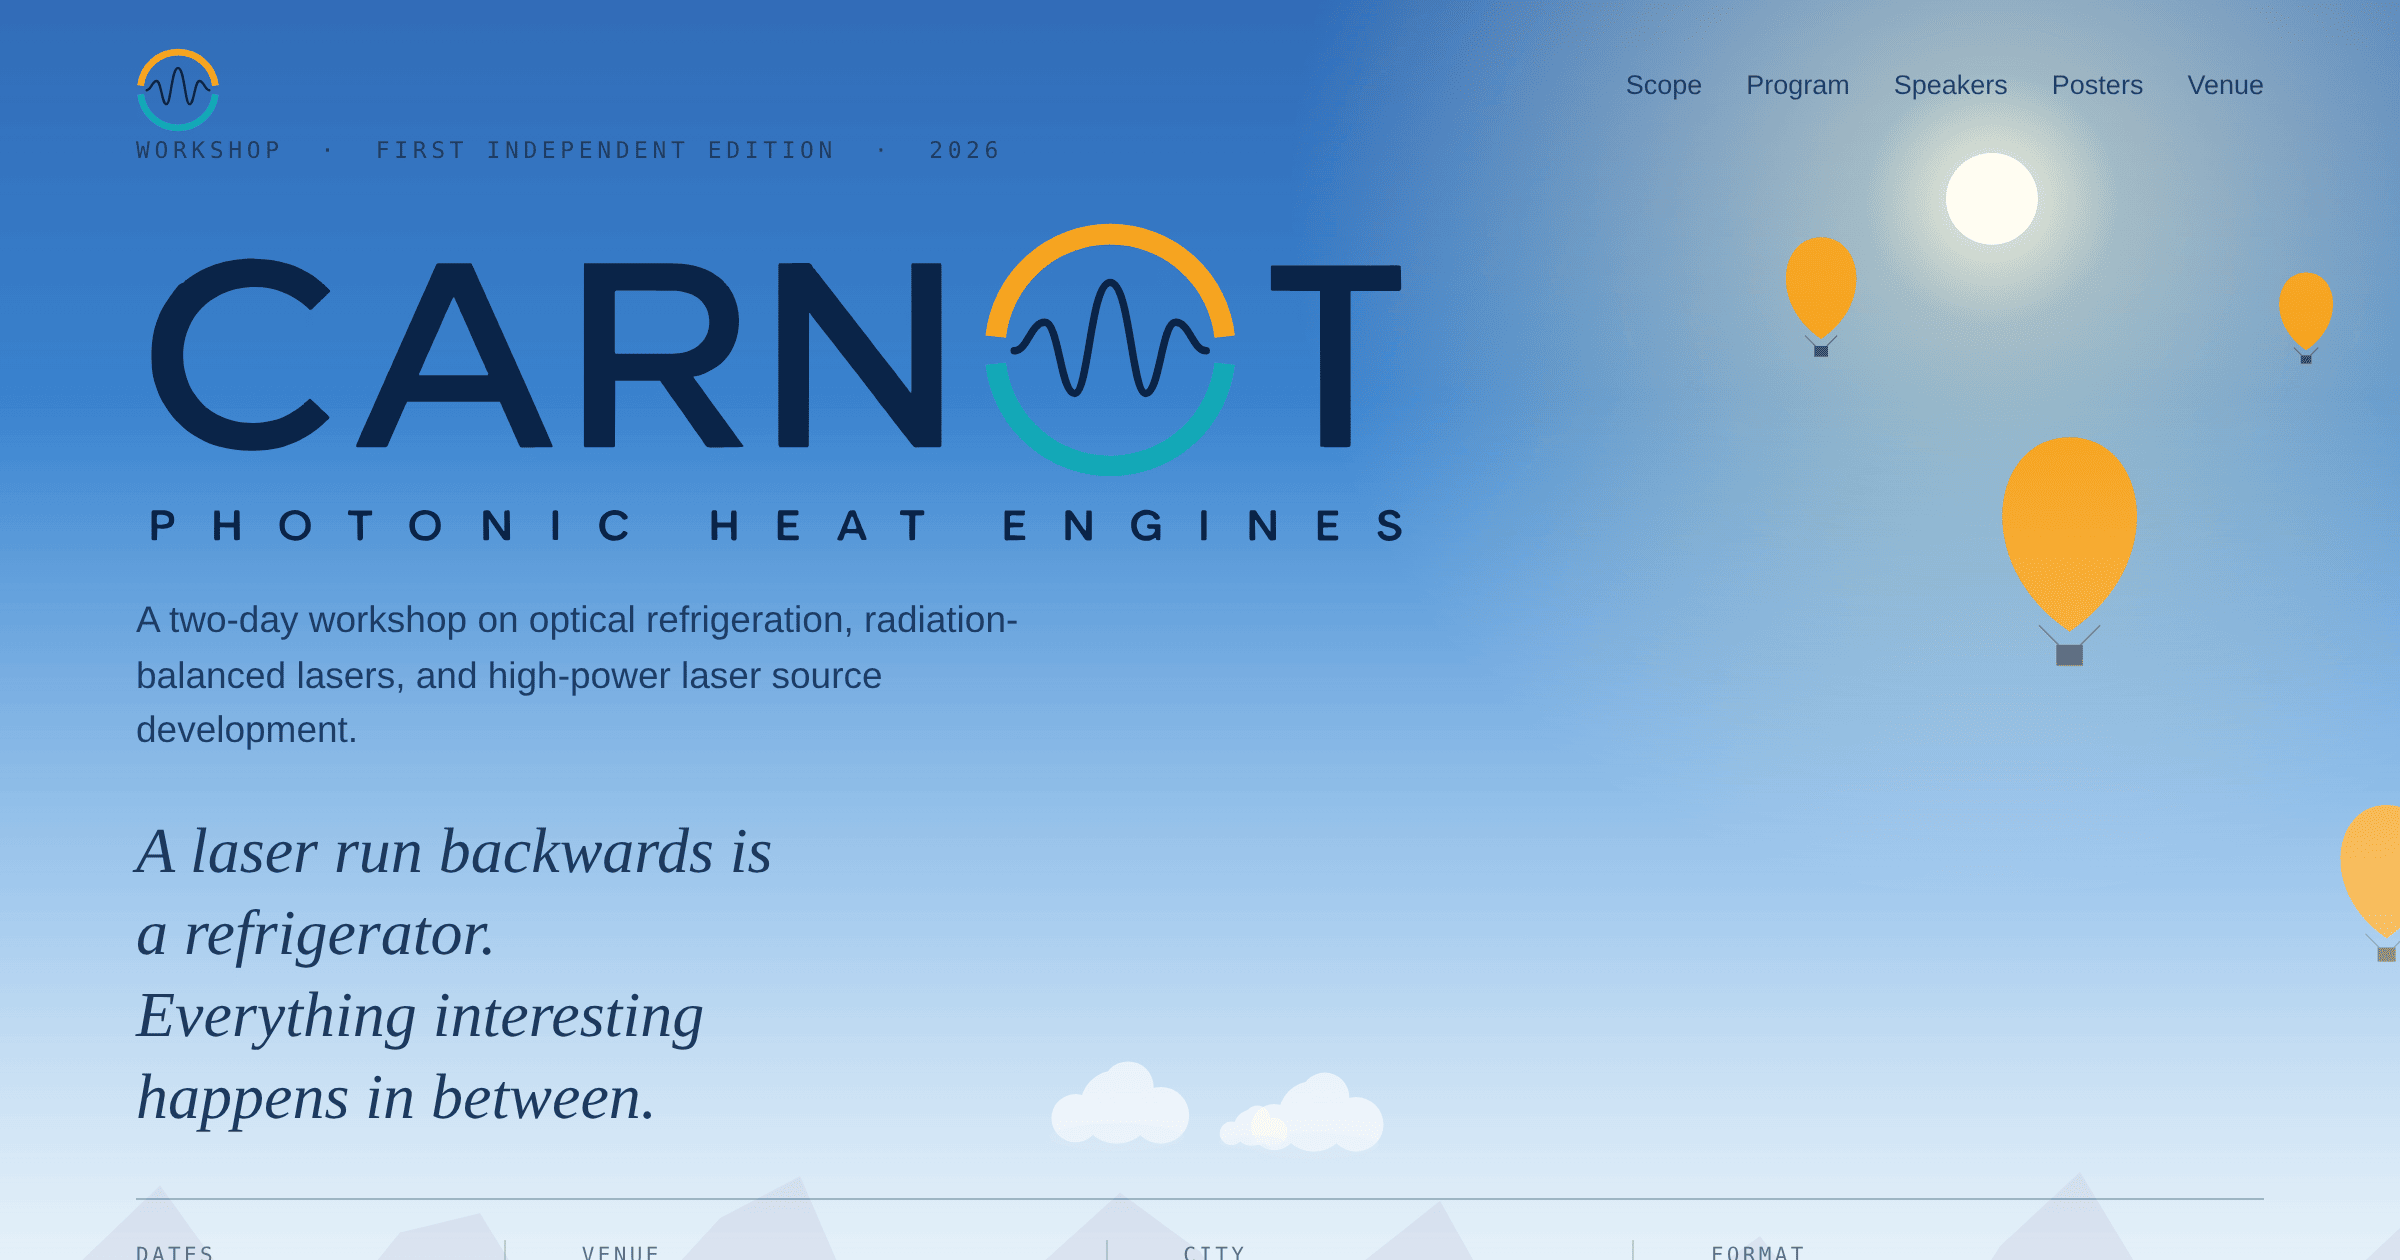
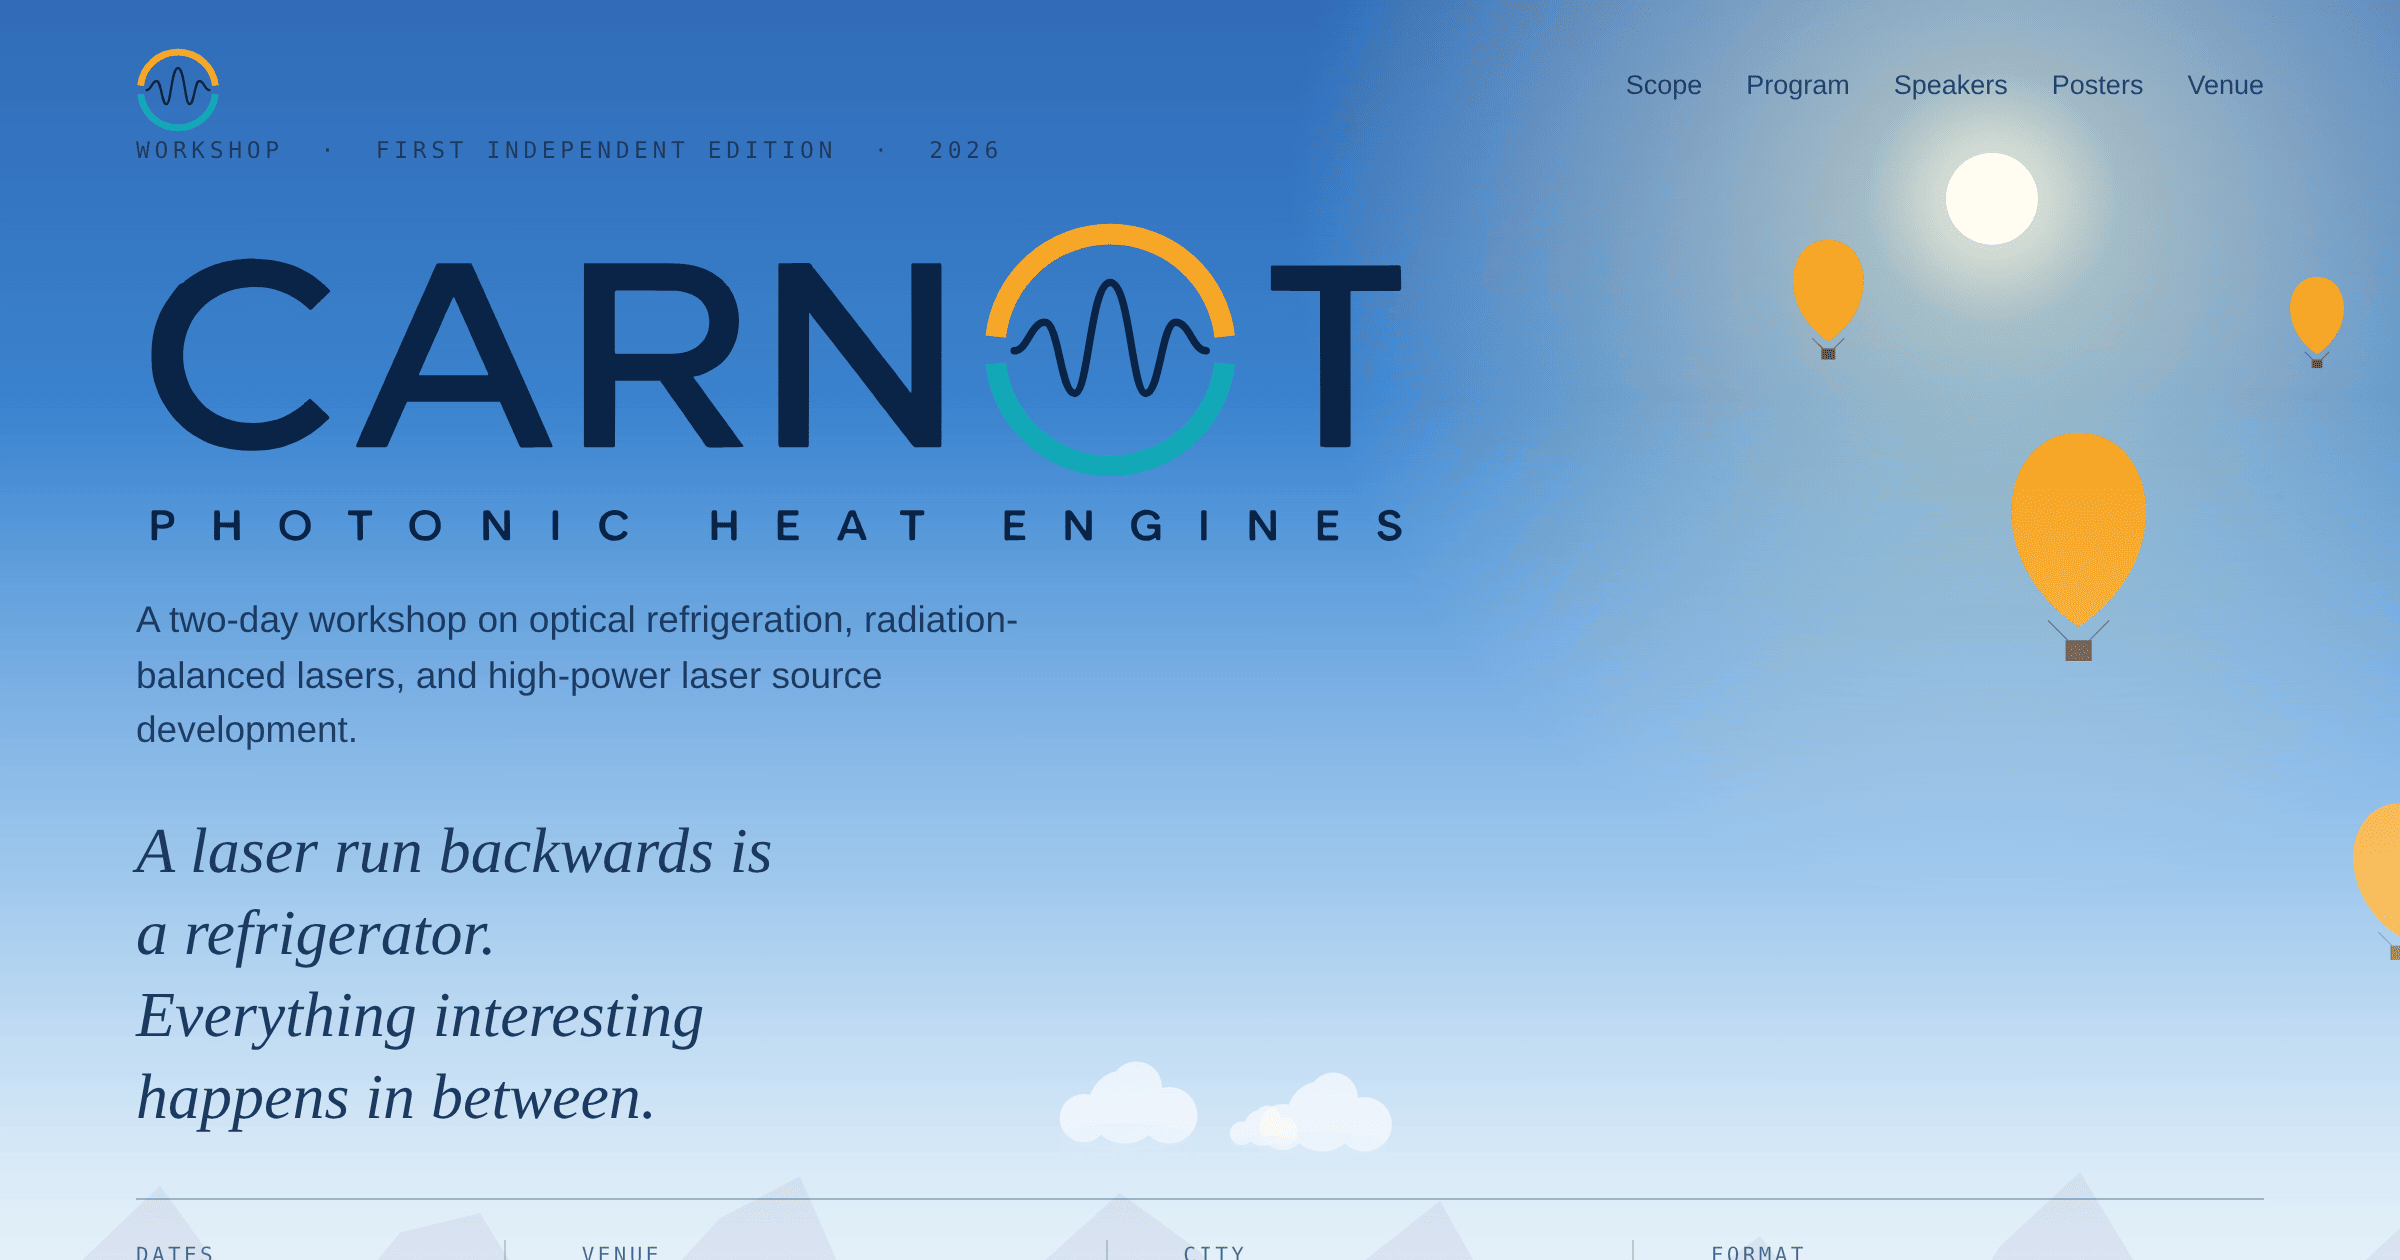
Add files via upload
v0.9 — PAIS photos, room details

diff --git a/index.html b/index.html
@@ -20,7 +20,7 @@
 <!-- ===== SITE VERSION =====================================================
      Bump this on every content change, and update the matching line in the
      footer (search: class="ver") and the entry in CHANGELOG.md.
-     CURRENT: v0.5 — 24 August 2026
+     CURRENT: v0.9 — 26 August 2026
      ====================================================================== -->
 <title>Carnot 2026 Workshop</title>
 <link rel="preconnect" href="https://fonts.googleapis.com">
@@ -206,8 +206,12 @@ section{padding:88px 0}
 
 /* ---------- VENUE ---------- */
 .venue-grid{display:grid; grid-template-columns:minmax(0,1fr) minmax(0,1.1fr); gap:56px; align-items:center}
-.venue-art{border:1px solid var(--line); border-radius:3px; overflow:hidden; background:var(--surface-2)}
-.venue-art svg{display:block; width:100%; height:auto}
+.venue-art{border:1px solid var(--line); border-radius:3px; overflow:hidden; background:var(--surface-2); margin:0}
+.venue-art img{display:block; width:100%; height:auto}
+.gallery{display:grid; grid-template-columns:repeat(auto-fit,minmax(250px,1fr)); gap:22px}
+.gallery figure{margin:0}
+.gallery img{display:block; width:100%; height:auto; border:1px solid var(--line); border-radius:3px; background:var(--surface-2)}
+.gallery figcaption{font-size:13.5px; line-height:1.5; color:var(--muted); margin-top:10px}
 .vlist{margin:26px 0 0; padding:0; list-style:none; border-top:1px solid var(--line)}
 .vlist li{display:grid; grid-template-columns:132px 1fr; gap:18px; padding:13px 0; border-bottom:1px solid var(--line); font-size:15px; align-items:baseline}
 .vlist li div{line-height:1.55}
@@ -234,6 +238,7 @@ section{padding:88px 0}
 .org span{font-size:13.5px; color:var(--muted)}
 footer{border-top:1px solid var(--line); padding:44px 0 60px; color:var(--muted); font-size:13.5px}
 .ver{font-family:"IBM Plex Mono",ui-monospace,monospace; font-size:11.5px; letter-spacing:.06em; margin-top:4px}
+.legal{font-size:12px; line-height:1.5; color:var(--muted); max-width:52ch; margin-top:12px}
 .foot{display:flex; justify-content:space-between; gap:26px; flex-wrap:wrap; align-items:flex-end}
 .note{font-size:12.5px; color:var(--muted); margin-top:14px; font-style:italic}
 
@@ -558,7 +563,7 @@ footer{border-top:1px solid var(--line); padding:44px 0 60px; color:var(--muted)
     <div class="sec-head">
       <p class="eyebrow">Students and postdocs</p>
       <h2>Poster session, with prizes</h2>
-      <p>Around twelve posters are expected, drawn from the speakers&rsquo; groups, from UNM&rsquo;s Center for High Technology Materials, and from the national laboratories. The session has its own ninety-minute block on Day One with a reception, introduced by flash talks in which every presenter gets two minutes and one slide.</p>
+      <p>Around twelve posters are expected, drawn from the speakers&rsquo; groups, from UNM&rsquo;s Center for High Technology Materials, and from the national laboratories. Posters go up in PAIS 1010 alongside the talks, and the session has its own ninety-minute block on Day One with a reception, introduced by flash talks in which every presenter gets two minutes and one slide.</p>
     </div>
     <p class="prose">Poster prizes are awarded at the workshop dinner, and the winners are invited to give short talks in Sunday&rsquo;s contributed session.</p>
   </div>
@@ -576,6 +581,7 @@ footer{border-top:1px solid var(--line); padding:44px 0 60px; color:var(--muted)
       </div>
       <ul class="vlist">
         <li><span>Venue</span><div>Physics, Astronomy and Interdisciplinary Science (PAIS) Building<br>210 Yale Boulevard NE, Albuquerque, NM 87106<br>University of New Mexico main campus &mdash; northeast corner of Yale and Redondo</div></li>
+        <li><span>Room</span><div>PAIS 1010 &mdash; 40 seats, two walls of whiteboard, a large projection screen, and a glass wall onto the inner courtyard.</div></li>
         
         <li><span>Lodging</span><div>Hotel Parq Central<br>806 Central Avenue SE, Albuquerque, NM 87102<br>Block held at the UNM rate for invited speakers and international guests</div></li>
         <li><span>From the airport</span><div>Albuquerque International Sunport (ABQ) is 10 minutes from the hotel. Hotel Parq Central runs a complimentary airport shuttle, 7:30&nbsp;am&ndash;10:30&nbsp;pm.</div></li>
@@ -588,70 +594,19 @@ footer{border-top:1px solid var(--line); padding:44px 0 60px; color:var(--muted)
         <a href="https://www.google.com/maps/dir/?api=1&amp;origin=Hotel%20Parq%20Central%2C%20806%20Central%20Ave%20SE%2C%20Albuquerque%2C%20NM%2087102&amp;destination=210%20Yale%20Blvd%20NE%2C%20Albuquerque%2C%20NM%2087106" target="_blank" rel="noopener">Directions, hotel to PAIS</a>
       </div>
     </div>
-    <div class="venue-art">
-      <svg viewBox="0 0 520 380" role="img" aria-label="Illustration of the PAIS building below the Sandia mountains under a bright New Mexico sky, with hot-air balloons overhead.">
-        <defs>
-          <linearGradient id="vsky" x1="0" y1="0" x2="0" y2="1">
-            <stop offset="0" stop-color="#1F62B4"/>
-            <stop offset=".42" stop-color="#5E9BDB"/>
-            <stop offset=".74" stop-color="#A9CDEB"/>
-            <stop offset="1" stop-color="#DCEAF3"/>
-          </linearGradient>
-          <radialGradient id="vsun" cx=".5" cy=".5" r=".5">
-            <stop offset="0" stop-color="#FFFBE4" stop-opacity=".95"/>
-            <stop offset="1" stop-color="#FFF6CE" stop-opacity="0"/>
-          </radialGradient>
-        </defs>
-        <rect width="520" height="380" fill="url(#vsky)"/>
-        <circle cx="424" cy="62" r="96" fill="url(#vsun)"/>
-        <circle cx="424" cy="62" r="15" fill="#FFFDF0" opacity=".95"/>
-
-        <g fill="#FFFFFF" opacity=".55">
-          <circle cx="118" cy="196" r="15"/><circle cx="140" cy="203" r="11"/><circle cx="98" cy="204" r="10"/>
-          <circle cx="330" cy="176" r="11"/><circle cx="346" cy="182" r="8"/>
-        </g>
-
-        <path d="M0 232 L70 190 L126 218 L198 166 L254 210 L318 172 L384 216 L450 186 L520 222 L520 380 L0 380 Z" fill="#93A3CA" opacity=".55"/>
-        <path d="M0 264 L86 232 L160 258 L242 226 L322 260 L406 232 L520 262 L520 380 L0 380 Z" fill="#A67D63" opacity=".9"/>
-        <path d="M0 292 L104 272 L206 290 L300 268 L400 292 L520 274 L520 380 L0 380 Z" fill="#7C4E33"/>
-
-        <g>
-          <rect x="96" y="292" width="196" height="66" fill="#E6DED0"/>
-          <rect x="96" y="292" width="196" height="7" fill="#C6BAA6"/>
-          <rect x="292" y="270" width="118" height="88" fill="#EFE8DC"/>
-          <rect x="292" y="270" width="118" height="7" fill="#C6BAA6"/>
-          <rect x="60" y="314" width="36" height="44" fill="#D8CEBC"/>
-        </g>
-        <g fill="#5E8FC4">
-          <rect x="112" y="308" width="13" height="17"/><rect x="135" y="308" width="13" height="17"/>
-          <rect x="158" y="308" width="13" height="17"/><rect x="181" y="308" width="13" height="17"/>
-          <rect x="204" y="308" width="13" height="17"/><rect x="227" y="308" width="13" height="17"/>
-          <rect x="250" y="308" width="13" height="17"/>
-          <rect x="308" y="288" width="13" height="17"/><rect x="331" y="288" width="13" height="17"/>
-          <rect x="354" y="288" width="13" height="17"/><rect x="377" y="288" width="13" height="17"/>
-          <rect x="112" y="334" width="13" height="17"/><rect x="158" y="334" width="13" height="17"/>
-          <rect x="227" y="334" width="13" height="17"/>
-          <rect x="308" y="316" width="13" height="17"/><rect x="354" y="316" width="13" height="17"/>
-        </g>
-        <g fill="#E8B45C">
-          <rect x="135" y="334" width="13" height="17"/><rect x="250" y="334" width="13" height="17"/>
-          <rect x="331" y="316" width="13" height="17"/>
-        </g>
-
-        <g>
-          <ellipse cx="108" cy="92" rx="26" ry="30" fill="#F6A21A"/>
-          <path d="M100 118 L108 130 L116 118 Z" fill="#5C3A1E" opacity=".7"/>
-          <rect x="103" y="130" width="10" height="8" fill="#5C3A1E"/>
-          <ellipse cx="216" cy="140" rx="17" ry="20" fill="#F6A21A"/>
-          <path d="M211 158 L216 167 L221 158 Z" fill="#5C3A1E" opacity=".7"/>
-          <rect x="212.5" y="167" width="7" height="5" fill="#5C3A1E"/>
-          <ellipse cx="466" cy="140" rx="12" ry="14" fill="#F6A21A"/>
-          <rect x="463" y="158" width="6" height="4" fill="#5C3A1E"/>
-        </g>
-      </svg>
-    </div>
+    <figure class="venue-art"><img src="photos/pais-exterior.jpg" alt="The PAIS building at the University of New Mexico" width="1500" height="843" loading="lazy"></figure>
   </div>
   <div class="wrap">
+    <p class="subhead2">The building</p>
+    <div class="gallery">
+      <figure><img src="photos/pais-atrium.jpg" alt="The PAIS atrium" width="1000" height="562" loading="lazy">
+        <figcaption>The atrium. Arrival, coffee, and the conversations that happen between sessions.</figcaption></figure>
+      <figure><img src="photos/pais-1010.jpg" alt="PAIS 1010, the workshop room" width="1000" height="562" loading="lazy">
+        <figcaption>PAIS 1010. Forty seats, two walls of whiteboard, one large screen. Talks and posters both live here.</figcaption></figure>
+      <figure><img src="photos/pais-courtyard.jpg" alt="The inner courtyard seen through the glass wall of PAIS 1010" width="1000" height="562" loading="lazy">
+        <figcaption>The same room looks onto the inner courtyard. Late October in Albuquerque is warm enough to take the breaks outside.</figcaption></figure>
+    </div>
+
     <p class="subhead2">If you can stay an extra day</p>
     <div class="extras">
       <div><b>Sandia Peak Tramway</b><span>From the edge of the city to 10,378 feet in fifteen minutes &mdash; a rise of 3,819 feet, and the longest aerial tram in the Americas.</span></div>
@@ -690,10 +645,11 @@ footer{border-top:1px solid var(--line); padding:44px 0 60px; color:var(--muted)
     <div>
       <svg class="foot-logo" viewBox="0 0 1800 486" role="img" aria-label="Carnot — Photonic Heat Engines"><use href="#lg"/></svg>
       <p style="max-width:46ch">24–25 October 2026 · PAIS Building, University of New Mexico, Albuquerque, New Mexico.</p>
+      <p class="legal">&copy; 2026 Carnot Workshop. Photographs of PAIS by Denis Seletskiy. Speaker portraits reproduced with permission and remain the property of their respective owners.</p>
     </div>
     <div style="text-align:right">
       <p>Program and speaker list are provisional.</p>
-      <p class="ver">Version 0.5 &middot; 24 August 2026</p>
+      <p class="ver">Version 0.9 &middot; 26 August 2026</p>
     </div>
   </div>
 </footer>

diff --git a/CHANGELOG.md b/CHANGELOG.md
@@ -3,6 +3,31 @@
 Bump the version in three places when you change the site:
 `index.html` header comment, the footer line (`class="ver"`), and here.
 
+## v0.9 — 26 August 2026
+- PAIS 1010 also has a glass wall onto the inner courtyard — added to the room
+  description; the courtyard photo is the view from inside the workshop room
+
+## v0.8 — 26 August 2026
+- Corrected: PAIS 1010 has TWO walls of whiteboard, not three
+- Posters are in PAIS 1010 with the talks, not the atrium — captions and the
+  poster section corrected
+- Third photo renamed and recaptioned: it is the inner courtyard, framed as
+  somewhere to take the breaks outdoors in late October
+
+## v0.7 — 24 August 2026
+- Real photographs of PAIS replace the drawn illustration (own work, no
+  licensing question): exterior on the venue block, plus a three-image gallery
+  of the atrium, PAIS 1010 and the courtyard break-out space
+- Room specification added: PAIS 1010, 40 seats, three walls of whiteboard,
+  large projection screen
+- Photo credit added to the footer
+- Photos ship as separate files under photos/ and load lazily, so the page
+  itself stays light
+
+## v0.6 — 24 August 2026
+- Copyright line added to the footer, with an explicit carve-out for speaker
+  portraits (which belong to the speakers and their institutions, not us)
+
 ## v0.5 — 24 August 2026
 - Logo replaced with the true vector master (brand/carnot-logo.svg); the hero,
   nav mark and footer are now resolution-independent
